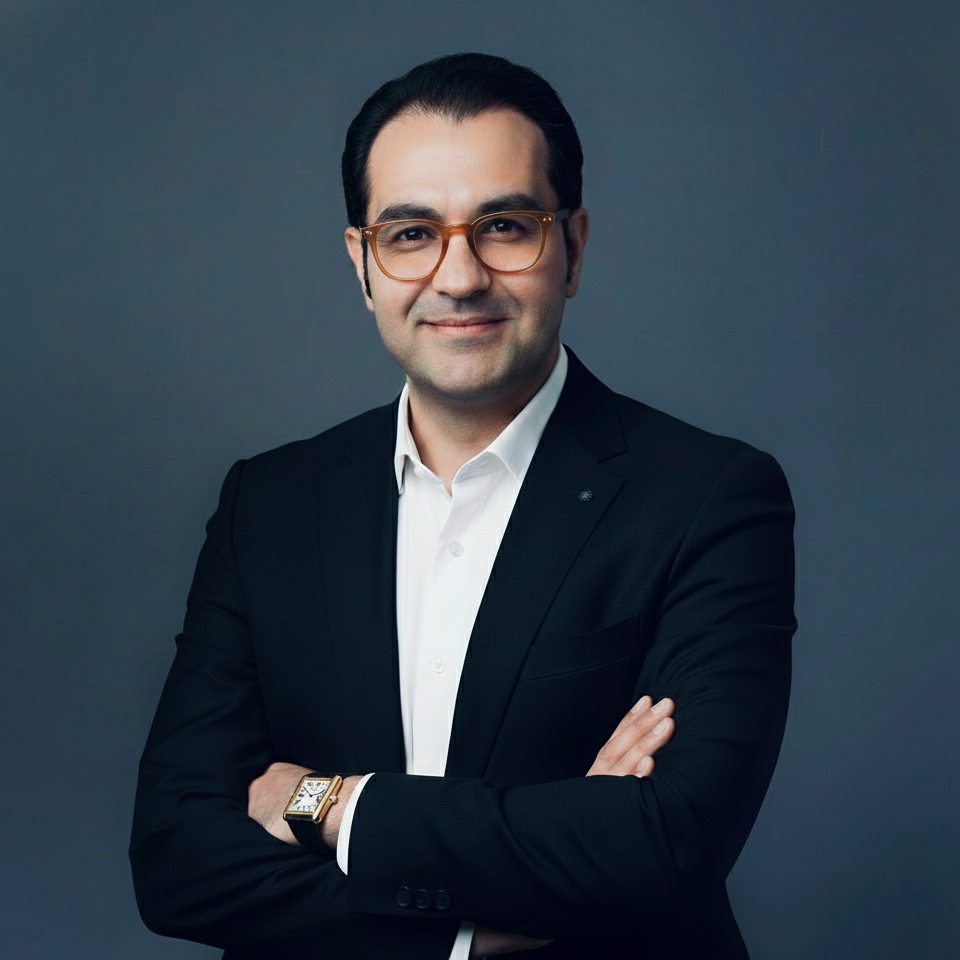
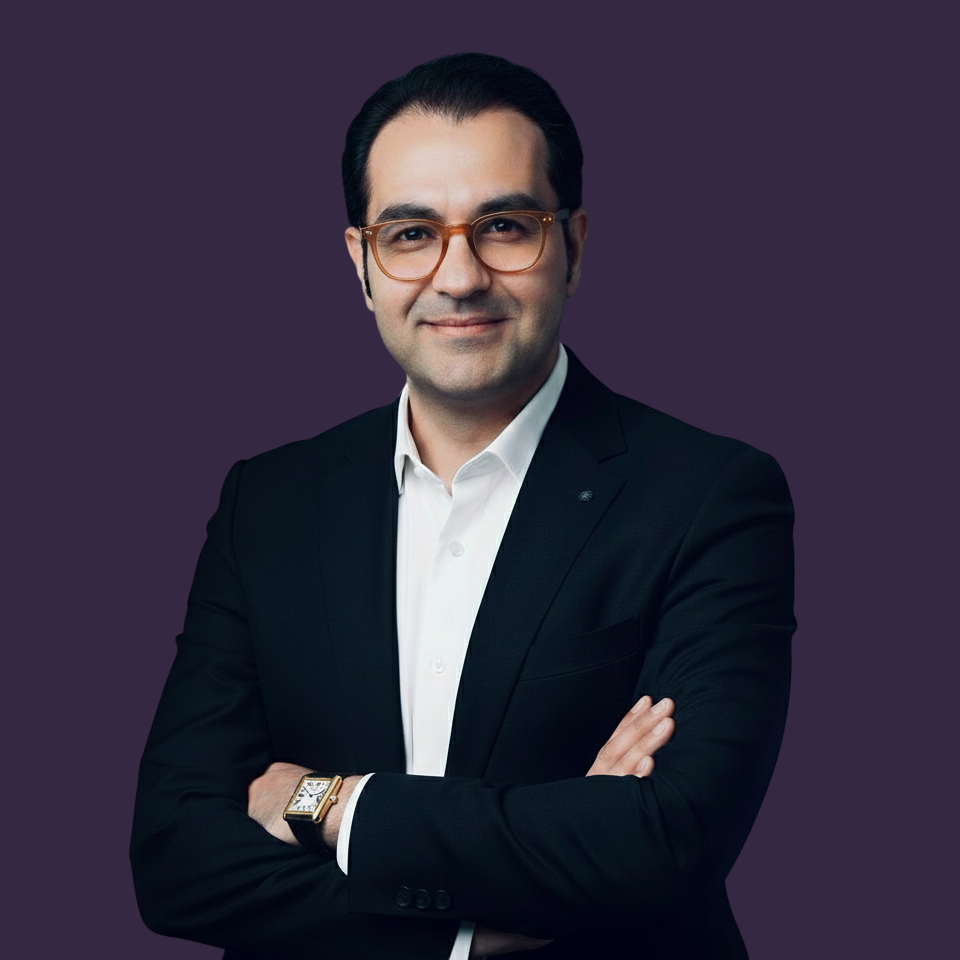
Add files via upload

diff --git a/css/style.css b/css/style.css
@@ -41,16 +41,16 @@ nav{
   backdrop-filter:blur(8px);
   border-bottom:1px solid var(--line);
 }
-nav .wrap{display:flex; align-items:center; justify-content:space-between; height:200px; max-width:1280px;}
+nav .wrap{display:flex; align-items:center; justify-content:space-between; height:228px; max-width:1280px;}
 .brand{display:flex; align-items:center; gap:18px; flex-shrink:0;}
-.brand img{height:151px; width:151px; object-fit:contain; flex-shrink:0; mix-blend-mode:multiply;}
+.brand img{height:181px; width:181px; object-fit:contain; flex-shrink:0; mix-blend-mode:multiply;}
 .brand-text{line-height:1.3;}
 .brand-title{font-family:'Fraunces', serif; font-weight:600; font-size:24px; letter-spacing:-0.01em;}
 .brand-sub1{font-family:'IBM Plex Mono', monospace; font-weight:500; font-size:12px; letter-spacing:0.06em; color:var(--hematoxylin); text-transform:uppercase; margin-top:6px;}
 .brand-sub2{font-family:'IBM Plex Sans', sans-serif; font-weight:500; font-size:14px; color:var(--ink); margin-top:4px;}
 .brand-sub3{font-family:'IBM Plex Mono', monospace; font-weight:400; font-size:12px; color:#6b6577; margin-top:2px;}
 @media (max-width:520px){
-  .brand img{height:78px; width:78px;}
+  .brand img{height:94px; width:94px;}
   .brand-title{font-size:17px;}
   .brand-sub1{font-size:10px;}
   .brand-sub2{font-size:12px;}
@@ -74,10 +74,10 @@ nav .wrap{display:flex; align-items:center; justify-content:space-between; heigh
   .nav-links a{padding:14px 0; border-bottom:1px solid var(--line); width:100%;}
   .nav-links a:last-child{border-bottom:none;}
   .nav-links a::after{display:none;}
-  nav .wrap{height:160px;}
+  nav .wrap{height:190px;}
 }
 @media (max-width:480px){
-  nav .wrap{height:106px; padding-left:20px; padding-right:20px;}
+  nav .wrap{height:122px; padding-left:20px; padding-right:20px;}
   .wrap{padding:0 20px;}
 }
 
